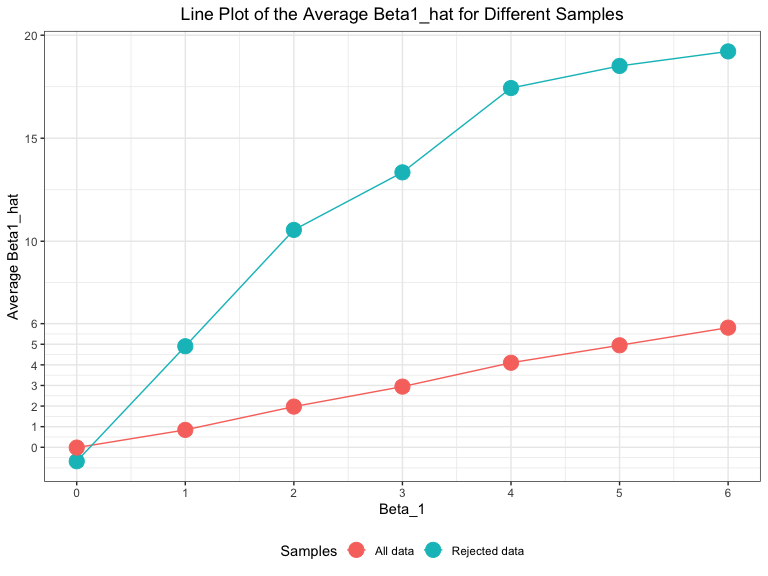
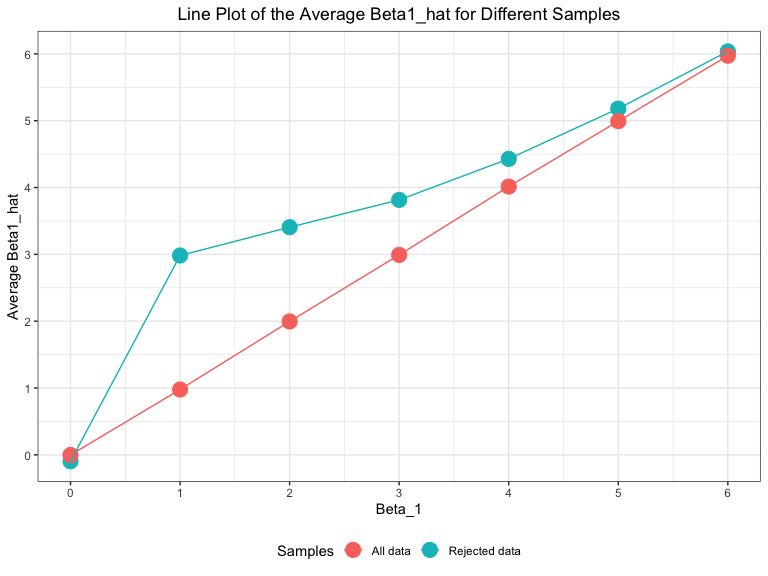
bug fixed

diff --git a/p8105_hw5_jz3183.md b/p8105_hw5_jz3183.md
@@ -265,7 +265,7 @@ sim_regression = function(beta_1 = 0) {
   # set variables
   sim_data = tibble(
     x = rnorm(n, mean = 0, sd = 1),
-    y = beta_0 + beta_1 * x + rnorm(n, 0, sigma)
+    y = beta_0 + beta_1 * x + rnorm(n, 0, sqrt(sigma))
   )
   
   # regression
@@ -291,12 +291,12 @@ head(sim_results)
 ## # A tibble: 6 x 3
 ##   beta_1 beta1_hat  p_value
 ##    <int>     <dbl>    <dbl>
-## 1      0     14.3  0.207   
-## 2      0      8.70 0.182   
-## 3      0      4.26 0.606   
-## 4      0     21.4  0.000149
-## 5      0     -8.42 0.471   
-## 6      0    -10.6  0.219
+## 1      0     2.02  0.207   
+## 2      0     1.23  0.182   
+## 3      0     0.603 0.606   
+## 4      0     3.03  0.000149
+## 5      0    -1.19  0.471   
+## 6      0    -1.49  0.219
 ```
 
 After simulation, we will start to draw graph to make some inference.
@@ -381,15 +381,13 @@ sim_results %>%
 <img src="p8105_hw5_jz3183_files/figure-gfm/p3_average-1.png" width="90%" />
 
 From the test we do, we find the sample average of \(\hat{\beta_1}\)
-across tests for which the null is rejected largely unequal to the true
-value of \(\beta_1\). On the other hand, sample average of
-\(\hat{\beta_1}\) on all data is approximately equal to the true value
-of \(\beta_1\). The reason is the samples of \(\hat{\beta_1}\) which can
-across tests for which the null is rejected are more likely to be
-deviated from \(\beta_1 = 0\). In other word, the larger
-\(\hat{\beta_1}\) are, the greater probability that they can reject
-\(H_0: \hat{\beta_1} = 0\) which result in a large amount of sample
-greater than \(\beta_1\). Also, when \(\beta_1 = 0\), the samples which
-can reject \(H_0: \hat{\beta_1} = 0\) will be deviated from 0, which
-means they will be significantly larger or smaller than 0, shown in the
-plot above.
+across tests for which the null is rejected gradually equal to the true
+value of \(\beta_1\) with the increasing value of \(\beta_1\). On the
+other hand, sample average of \(\hat{\beta_1}\) on all data is always
+consistent to the true value of \(\beta_1\). The reason is the samples
+of \(\hat{\beta_1}\) which can across tests for which the null is
+rejected are more likely to be deviated from \(\beta_1 = 0\) when
+\(\beta_1 = 0\) is close to 0. However, with the increasing value of
+\(\beta_1 = 0\) , more and more samples rejected the null hypothesis,
+which makes the average of \(\hat{\beta_1}\) on rejected data closer to
+the average of \(\hat{\beta_1}\) on all data.
